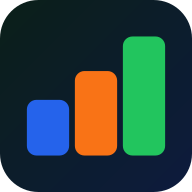
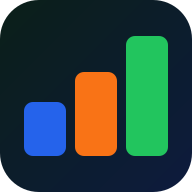
feat: 图标居中+圆角+splash屏 / 统计&汇总全部按汇率换算 CNY
图标修复:
- pwa-maskable.svg: 三柱图形垂直居中（下沿对齐 y=391，中心=256）
- pwa-icon.svg(新增): 带圆角(rx=104)的标准图标，替代原无圆角版本
- 重新生成所有 PNG: 192/512/maskable-192/maskable-512/apple-touch-icon

启动屏:
- index.html 内联 splash（深色渐变背景+带圆角图标+文字）
- App.tsx useEffect 首次渲染后 0.4s 淡出并删除 splash 节点

汇率换算(后端):
- stats_service.go 新增 cnyExpr 常量（CASE WHEN 对 USD/EUR/JPY/GBP 乘汇率）
- Summary / Monthly / ByCategory / ByProject 四个 SQL 查询全部应用 cnyExpr

汇率换算(前端):
- format.ts 新增 EXCHANGE_RATES_TO_CNY / toCNY() / sumInCNY()
- TransactionsPage 汇总卡片改用 sumInCNY() → 显示单一 CNY 总额
- exportTransactionsPDF.ts 收入/支出/已报销合计改用 toCNY() 换算

各交易明细行仍保留原始货币符号显示（USD→$, EUR→€ 等）

diff --git a/frontend/index.html b/frontend/index.html
@@ -29,6 +29,39 @@
     <title>FinArch</title>
   </head>
   <body>
+    <!-- PWA splash screen: shown immediately, faded out by React after first render -->
+    <div id="splash" style="
+      position:fixed;inset:0;z-index:9999;
+      display:flex;align-items:center;justify-content:center;
+      background:linear-gradient(135deg,#0b1f18 0%,#0d1b3e 100%);
+      transition:opacity 0.4s ease;
+    ">
+      <div style="display:flex;flex-direction:column;align-items:center;gap:16px">
+        <!-- Rounded icon matching app icon shape -->
+        <div style="
+          width:96px;height:96px;border-radius:22px;
+          background:linear-gradient(135deg,#0b1f18 0%,#0d1b3e 100%);
+          display:flex;align-items:center;justify-content:center;
+          box-shadow:0 8px 32px rgba(0,0,0,0.4);
+          overflow:hidden;
+        ">
+          <svg xmlns="http://www.w3.org/2000/svg" viewBox="0 0 512 512" width="80" height="80">
+            <rect width="512" height="512" rx="104" ry="104" fill="url(#sbg)"/>
+            <defs>
+              <linearGradient id="sbg" x1="0%" y1="0%" x2="100%" y2="100%">
+                <stop offset="0%" stop-color="#0b1f18"/>
+                <stop offset="100%" stop-color="#0d1b3e"/>
+              </linearGradient>
+            </defs>
+            <rect x="64"  y="272" width="112" height="144" rx="24" fill="#2563eb"/>
+            <rect x="200" y="192" width="112" height="224" rx="24" fill="#f97316"/>
+            <rect x="336" y="96"  width="112" height="320" rx="24" fill="#22c55e"/>
+          </svg>
+        </div>
+        <span style="color:white;font-family:sans-serif;font-size:22px;font-weight:700;letter-spacing:0.04em">FinArch</span>
+        <span style="color:#93c5fd;font-family:sans-serif;font-size:13px">记账 · 报销 · 统计</span>
+      </div>
+    </div>
     <div id="root"></div>
     <script type="module" src="/src/main.tsx"></script>
   </body>

diff --git a/frontend/src/utils/format.ts b/frontend/src/utils/format.ts
@@ -7,6 +7,25 @@ const CURRENCY_SYMBOLS: Record<string, string> = {
   GBP: '£',
 }
 
+/**
+ * Approximate exchange rates to CNY (1 unit of foreign currency = N CNY).
+ * Used for aggregated totals, stats and PDF summaries.
+ * Individual transaction amounts are always shown in their original currency.
+ */
+export const EXCHANGE_RATES_TO_CNY: Record<string, number> = {
+  CNY: 1,
+  USD: 7.2,
+  EUR: 7.8,
+  JPY: 0.05,
+  GBP: 9.0,
+}
+
+/** Converts an amount in any currency to CNY equivalent. */
+export function toCNY(amount: number, currency: string): number {
+  const rate = EXCHANGE_RATES_TO_CNY[(currency ?? 'CNY').toUpperCase()] ?? 1
+  return amount * rate
+}
+
 /** Returns the symbol for a currency code, falling back to the code itself. */
 export function currencySymbol(currency: string): string {
   return CURRENCY_SYMBOLS[currency?.toUpperCase()] ?? currency ?? '¥'
@@ -51,6 +70,14 @@ export function sumByCurrency(items: AmountWithCurrency[]): Map<string, number> 
     map.set(cur, (map.get(cur) ?? 0) + item.amount_yuan)
   }
   return map
+}
+
+/**
+ * Converts all amounts to CNY equivalents and sums them.
+ * Used for aggregate totals in summary cards, PDF exports, etc.
+ */
+export function sumInCNY(items: AmountWithCurrency[]): number {
+  return items.reduce((s, t) => s + toCNY(t.amount_yuan, t.currency || 'CNY'), 0)
 }
 
 /**

diff --git a/frontend/src/utils/exportTransactionsPDF.ts b/frontend/src/utils/exportTransactionsPDF.ts
@@ -1,5 +1,5 @@
 import type { Transaction } from '../api/client'
-import { formatAmount } from './format'
+import { formatAmount, toCNY } from './format'
 
 function fmt(t: Transaction) {
   return formatAmount(t.amount_yuan, t.currency)
@@ -16,9 +16,9 @@ export function exportTransactionsPDF(
 ) {
   const now = new Date()
   const dateStr = `${now.getFullYear()}-${String(now.getMonth() + 1).padStart(2, '0')}-${String(now.getDate()).padStart(2, '0')}`
-  const incSum = filtered.filter(t => t.direction === 'income').reduce((s, t) => s + t.amount_yuan, 0)
-  const expSum = filtered.filter(t => t.direction === 'expense').reduce((s, t) => s + t.amount_yuan, 0)
-  const reimbursedSum = filtered.filter(t => t.direction === 'expense' && t.source === 'personal' && t.reimbursed).reduce((s, t) => s + t.amount_yuan, 0)
+  const incSum = filtered.filter(t => t.direction === 'income').reduce((s, t) => s + toCNY(t.amount_yuan, t.currency), 0)
+  const expSum = filtered.filter(t => t.direction === 'expense').reduce((s, t) => s + toCNY(t.amount_yuan, t.currency), 0)
+  const reimbursedSum = filtered.filter(t => t.direction === 'expense' && t.source === 'personal' && t.reimbursed).reduce((s, t) => s + toCNY(t.amount_yuan, t.currency), 0)
   const net = incSum - expSum + reimbursedSum
 
   const rows = filtered.map(t => {

diff --git a/frontend/src/pages/TransactionsPage.tsx b/frontend/src/pages/TransactionsPage.tsx
@@ -4,7 +4,7 @@ import { listTransactions, toggleReimbursed, toggleUploaded } from '../api/clien
 import type { Transaction } from '../api/client'
 import { useAuth } from '../contexts/AuthContext'
 import { exportTransactionsPDF } from '../utils/exportTransactionsPDF'
-import { formatAmount, formatTotals } from '../utils/format'
+import { formatAmount, sumInCNY } from '../utils/format'
 
 type FilterTab = 'all' | 'unreimbursed' | 'reimbursed'
 
@@ -107,8 +107,8 @@ export default function TransactionsPage() {
 
   const incomeItems = filtered.filter(t => t.direction === 'income')
   const expenseItems = filtered.filter(t => t.direction === 'expense')
-  const totalIncomeStr = formatTotals(incomeItems).join(' + ') || '¥0.00'
-  const totalExpenseStr = formatTotals(expenseItems).join(' + ') || '¥0.00'
+  const totalIncomeStr = formatAmount(sumInCNY(incomeItems), 'CNY')
+  const totalExpenseStr = formatAmount(sumInCNY(expenseItems), 'CNY')
 
   return (
     <div className="space-y-5">

diff --git a/frontend/src/App.tsx b/frontend/src/App.tsx
@@ -1,3 +1,4 @@
+import { useEffect } from 'react'
 import { BrowserRouter, Routes, Route, Navigate } from 'react-router-dom'
 import { AuthProvider, useAuth } from './contexts/AuthContext'
 import { ConfigProvider } from './contexts/ConfigContext'
@@ -41,6 +42,15 @@ function LoginRouteWrapper() {
 }
 
 function App() {
+  // Fade out the inline splash screen after React mounts
+  useEffect(() => {
+    const splash = document.getElementById('splash')
+    if (!splash) return
+    splash.style.opacity = '0'
+    const t = setTimeout(() => splash.remove(), 420)
+    return () => clearTimeout(t)
+  }, [])
+
   return (
     <BrowserRouter>
       <ConfigProvider>

diff --git a/internal/domain/service/stats_service.go b/internal/domain/service/stats_service.go
@@ -46,18 +46,28 @@ type ProjectStat struct {
 	Net         float64 `json:"net"`
 }
 
+// cnyExpr returns a SQL expression that converts amount_yuan to CNY equivalent
+// based on the transaction's currency field.
+const cnyExpr = `amount_yuan * CASE currency
+  WHEN 'USD' THEN 7.2
+  WHEN 'EUR' THEN 7.8
+  WHEN 'JPY' THEN 0.05
+  WHEN 'GBP' THEN 9.0
+  ELSE 1
+END`
+
 // Summary returns company balance + personal outstanding for a user.
 func (s *StatsService) Summary(ctx context.Context, userID string) (PoolBalance, error) {
 	var b PoolBalance
 	err := s.db.QueryRowContext(ctx, `
 		SELECT
 		  COALESCE(SUM(CASE
-		    WHEN source='company' AND direction='income'  THEN  amount_yuan
-		    WHEN source='company' AND direction='expense' THEN -amount_yuan
+		    WHEN source='company' AND direction='income'  THEN  `+cnyExpr+`
+		    WHEN source='company' AND direction='expense' THEN -(`+cnyExpr+`)
 		    ELSE 0 END), 0),
 		  COALESCE(SUM(CASE
 		    WHEN source='personal' AND direction='expense' AND reimbursed=0
-		    THEN amount_yuan ELSE 0 END), 0)
+		    THEN `+cnyExpr+` ELSE 0 END), 0)
 		FROM transactions
 		WHERE user_id = ?
 	`, userID).Scan(&b.CompanyBalance, &b.PersonalOutstanding)
@@ -73,9 +83,9 @@ func (s *StatsService) Monthly(ctx context.Context, userID string, year int) ([]
 		SELECT
 		  CAST(strftime('%Y', datetime(occurred_at, 'unixepoch')) AS INTEGER),
 		  CAST(strftime('%m', datetime(occurred_at, 'unixepoch')) AS INTEGER),
-		  COALESCE(SUM(CASE WHEN direction='income' THEN amount_yuan ELSE 0 END), 0),
-		  COALESCE(SUM(CASE WHEN direction='expense' THEN amount_yuan ELSE 0 END), 0),
-		  COALESCE(SUM(CASE WHEN direction='expense' AND source='personal' AND reimbursed=1 THEN amount_yuan ELSE 0 END), 0)
+			  COALESCE(SUM(CASE WHEN direction='income' THEN `+cnyExpr+` ELSE 0 END), 0),
+			  COALESCE(SUM(CASE WHEN direction='expense' THEN `+cnyExpr+` ELSE 0 END), 0),
+			  COALESCE(SUM(CASE WHEN direction='expense' AND source='personal' AND reimbursed=1 THEN `+cnyExpr+` ELSE 0 END), 0)
 		FROM transactions
 		WHERE strftime('%Y', datetime(occurred_at, 'unixepoch')) = ? AND user_id = ?
 		GROUP BY 1, 2
@@ -100,7 +110,7 @@ func (s *StatsService) Monthly(ctx context.Context, userID string, year int) ([]
 func (s *StatsService) ByCategory(ctx context.Context, userID string, dateFrom, dateTo string) ([]CategoryStat, error) {
 	q := `
 		SELECT category,
-		       COALESCE(SUM(amount_yuan), 0) AS total,
+		       COALESCE(SUM(` + cnyExpr + `), 0) AS total,
 		       COUNT(*) AS cnt
 		FROM transactions
 		WHERE direction='expense' AND user_id = ?`
@@ -136,8 +146,8 @@ func (s *StatsService) ByProject(ctx context.Context, userID string) ([]ProjectS
 	rows, err := s.db.QueryContext(ctx, `
 		SELECT project_id,
 		       COALESCE((SELECT name FROM projects WHERE id = project_id), project_id),
-		       COALESCE(SUM(CASE WHEN direction='income'  THEN amount_yuan ELSE 0 END), 0),
-		       COALESCE(SUM(CASE WHEN direction='expense' THEN amount_yuan ELSE 0 END), 0)
+		       COALESCE(SUM(CASE WHEN direction='income'  THEN `+cnyExpr+` ELSE 0 END), 0),
+		       COALESCE(SUM(CASE WHEN direction='expense' THEN `+cnyExpr+` ELSE 0 END), 0)
 		FROM transactions
 		WHERE project_id IS NOT NULL AND project_id != '' AND user_id = ?
 		GROUP BY project_id
